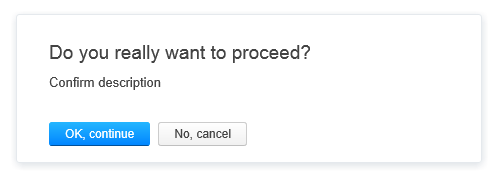
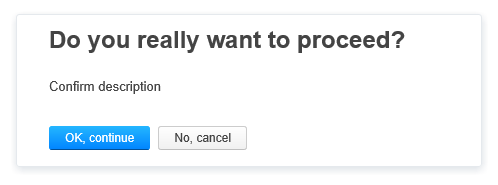
RG-1305 use <Header/> in confirm
Former-commit-id: fec9a38975098818e22a7d57b83d890887eb01ef

diff --git a/components/confirm/confirm.js b/components/confirm/confirm.js
@@ -2,7 +2,7 @@ import React, {PropTypes} from 'react';
 import Dialog from '../dialog/dialog';
 import Button from '../button/button';
 import RingComponent from '../ring-component/ring-component';
-import {Content} from '../island/island';
+import {Content, Header} from '../island/island';
 import Panel from '../panel/panel';
 import styles from './confirm.css';
 
@@ -60,8 +60,8 @@ export default class Confirm extends RingComponent {
         onEscPress={this.onEscPress}
         show={show}
       >
+        <Header>{text}</Header>
         <Content>
-          <div className={styles.text}>{text}</div>
           {description && <div className={styles.description}>{description}</div>}
         </Content>
         <Panel>
